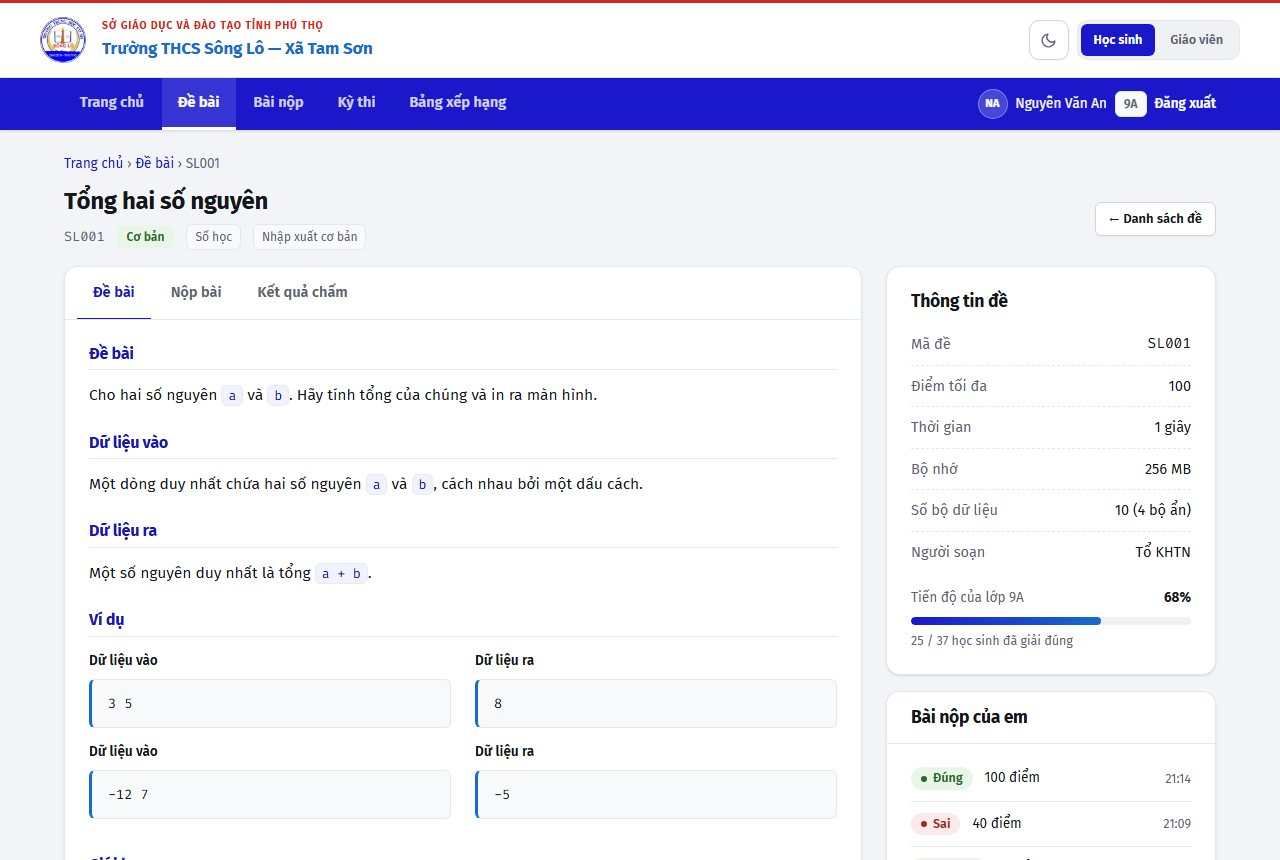
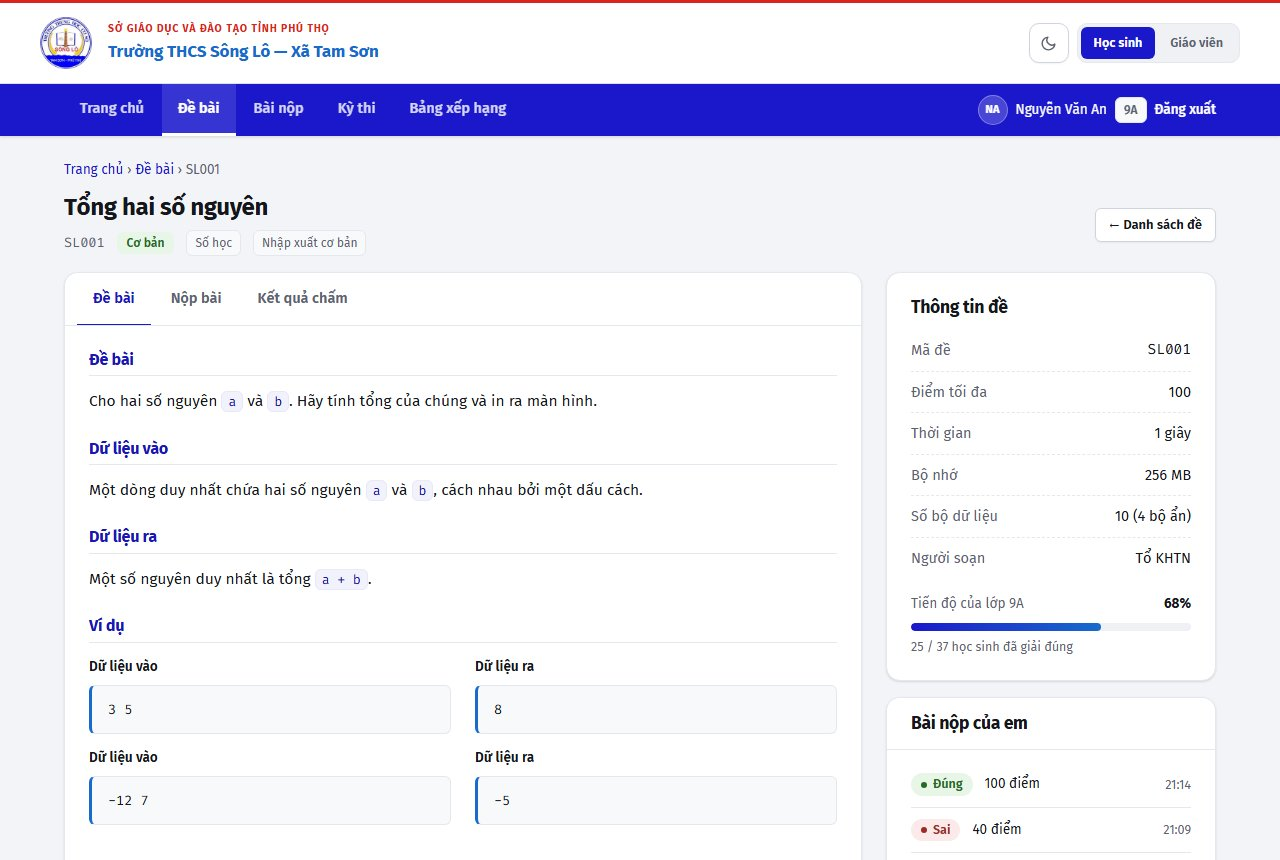
Nâng huy hiệu ở header từ 46 lên 52 px
Huy hiệu có một vòng chữ nhỏ bao quanh; ở 46 px vòng chữ đó nhoè thành
một vệt. Ảnh gốc rộng 144 px nên 52 px vẫn dư độ phân giải cho màn hình
mật độ cao.

Sửa ở cả hai chỗ phải khớp nhau:
  - CSS: .site-head__mark (52 px), và biến thể <=768 px (40 -> 44 px)
  - Thuộc tính width/height trên thẻ <img> ở cả 11 trang

CSS thắng sau khi tải xong, nhưng thuộc tính giữ đúng kích thước chỗ đó
ngay từ đầu nên không bị nhảy bố cục lúc mới tải.

Kèm theo:
  - _tools/shoot_docs.py: script chụp lại 8 ảnh README, thay cho 8 lệnh
    Chrome gõ tay. Tự sinh tệp probe, tự kiểm tra kích thước ảnh đầu ra.
  - Chụp lại cả 8 ảnh docs/ vì trang nào cũng có header.
  - README hai cấp: ghi lại con số 52 px, lý do, và chỗ phải sửa cho khớp.
    Nói rõ nền trắng bên trong vòng tròn là phần thiết kế của huy hiệu,
    nên ở chế độ tối huy hiệu hiện ra như một huy hiệu nền sáng.

Đã đo, không phải ước lượng:
  - huy hiệu render đúng 104x104 px thiết bị = 52x52 CSS px (DSF=2)
  - header cao 80 px (52 + 2x14 padding), nav dồn xuống tương ứng
  - 11/11 trang không tràn ngang ở 390 px
  - 0 liên kết nội bộ hỏng, 0 tệp mồ côi trong assets/

diff --git a/demo/assets/css/style.css b/demo/assets/css/style.css
@@ -213,9 +213,13 @@ kbd {
 .site-head__inner { display: flex; align-items: center; gap: var(--sp-4); padding: 14px 0; }
 /* Official emblem of Truong THCS Song Lo. The PNG has a transparent
    background, so the same file sits on the white header and on the dark one
-   without needing a plate or a theme-specific variant behind it. */
+   without needing a plate or a theme-specific variant behind it.
+   52px rather than 46px: the emblem carries a ring of small lettering that
+   turns to mush below ~50px. The source PNG is 144px wide, so there is still
+   headroom over 2x DPR. Keep this in sync with the width/height attributes
+   on the <img> in every page. */
 .site-head__mark {
-  width: 46px; height: 46px; flex: none; display: block;
+  width: 52px; height: 52px; flex: none; display: block;
   object-fit: contain;
 }
 .site-head__text { min-width: 0; }
@@ -795,7 +799,7 @@ kbd {
   .site-foot__grid { grid-template-columns: 1fr; gap: var(--sp-5); }
   .card, .card__body { padding: var(--sp-4); }
   .card__head, .table th, .table td { padding-left: var(--sp-4); padding-right: var(--sp-4); }
-  .site-head__mark { width: 40px; height: 40px; }
+  .site-head__mark { width: 44px; height: 44px; }
   .site-head__name { font-size: 15px; }
   .stat__value { font-size: 28px; }
   .hero-stats { margin-top: -32px; }

diff --git a/demo/contests.html b/demo/contests.html
@@ -17,7 +17,7 @@
 
 <header class="site-head">
   <div class="container site-head__inner">
-    <img class="site-head__mark" src="assets/img/logo.png" alt="" width="46" height="46">
+    <img class="site-head__mark" src="assets/img/logo.png" alt="" width="52" height="52">
     <div class="site-head__text">
       <p class="site-head__dept">Sở Giáo dục và Đào tạo tỉnh Phú Thọ</p>
       <p class="site-head__name">Trường THCS Sông Lô — Xã Tam Sơn</p>

diff --git a/demo/index.html b/demo/index.html
@@ -17,7 +17,7 @@
 
 <header class="site-head">
   <div class="container site-head__inner">
-    <img class="site-head__mark" src="assets/img/logo.png" alt="" width="46" height="46">
+    <img class="site-head__mark" src="assets/img/logo.png" alt="" width="52" height="52">
     <div class="site-head__text">
       <p class="site-head__dept">Sở Giáo dục và Đào tạo tỉnh Phú Thọ</p>
       <p class="site-head__name">Trường THCS Sông Lô — Xã Tam Sơn</p>

diff --git a/demo/leaderboard.html b/demo/leaderboard.html
@@ -17,7 +17,7 @@
 
 <header class="site-head">
   <div class="container site-head__inner">
-    <img class="site-head__mark" src="assets/img/logo.png" alt="" width="46" height="46">
+    <img class="site-head__mark" src="assets/img/logo.png" alt="" width="52" height="52">
     <div class="site-head__text">
       <p class="site-head__dept">Sở Giáo dục và Đào tạo tỉnh Phú Thọ</p>
       <p class="site-head__name">Trường THCS Sông Lô — Xã Tam Sơn</p>

diff --git a/demo/login.html b/demo/login.html
@@ -17,7 +17,7 @@
 
 <header class="site-head">
   <div class="container site-head__inner">
-    <img class="site-head__mark" src="assets/img/logo.png" alt="" width="46" height="46">
+    <img class="site-head__mark" src="assets/img/logo.png" alt="" width="52" height="52">
     <div class="site-head__text">
       <p class="site-head__dept">Sở Giáo dục và Đào tạo tỉnh Phú Thọ</p>
       <p class="site-head__name">Trường THCS Sông Lô — Xã Tam Sơn</p>

diff --git a/demo/problem.html b/demo/problem.html
@@ -17,7 +17,7 @@
 
 <header class="site-head">
   <div class="container site-head__inner">
-    <img class="site-head__mark" src="assets/img/logo.png" alt="" width="46" height="46">
+    <img class="site-head__mark" src="assets/img/logo.png" alt="" width="52" height="52">
     <div class="site-head__text">
       <p class="site-head__dept">Sở Giáo dục và Đào tạo tỉnh Phú Thọ</p>
       <p class="site-head__name">Trường THCS Sông Lô — Xã Tam Sơn</p>

diff --git a/demo/problems.html b/demo/problems.html
@@ -17,7 +17,7 @@
 
 <header class="site-head">
   <div class="container site-head__inner">
-    <img class="site-head__mark" src="assets/img/logo.png" alt="" width="46" height="46">
+    <img class="site-head__mark" src="assets/img/logo.png" alt="" width="52" height="52">
     <div class="site-head__text">
       <p class="site-head__dept">Sở Giáo dục và Đào tạo tỉnh Phú Thọ</p>
       <p class="site-head__name">Trường THCS Sông Lô — Xã Tam Sơn</p>

diff --git a/demo/submission.html b/demo/submission.html
@@ -17,7 +17,7 @@
 
 <header class="site-head">
   <div class="container site-head__inner">
-    <img class="site-head__mark" src="assets/img/logo.png" alt="" width="46" height="46">
+    <img class="site-head__mark" src="assets/img/logo.png" alt="" width="52" height="52">
     <div class="site-head__text">
       <p class="site-head__dept">Sở Giáo dục và Đào tạo tỉnh Phú Thọ</p>
       <p class="site-head__name">Trường THCS Sông Lô — Xã Tam Sơn</p>

diff --git a/demo/submissions.html b/demo/submissions.html
@@ -17,7 +17,7 @@
 
 <header class="site-head">
   <div class="container site-head__inner">
-    <img class="site-head__mark" src="assets/img/logo.png" alt="" width="46" height="46">
+    <img class="site-head__mark" src="assets/img/logo.png" alt="" width="52" height="52">
     <div class="site-head__text">
       <p class="site-head__dept">Sở Giáo dục và Đào tạo tỉnh Phú Thọ</p>
       <p class="site-head__name">Trường THCS Sông Lô — Xã Tam Sơn</p>

diff --git a/demo/teacher-classes.html b/demo/teacher-classes.html
@@ -17,7 +17,7 @@
 
 <header class="site-head">
   <div class="container site-head__inner">
-    <img class="site-head__mark" src="assets/img/logo.png" alt="" width="46" height="46">
+    <img class="site-head__mark" src="assets/img/logo.png" alt="" width="52" height="52">
     <div class="site-head__text">
       <p class="site-head__dept">Sở Giáo dục và Đào tạo tỉnh Phú Thọ</p>
       <p class="site-head__name">Trường THCS Sông Lô — Xã Tam Sơn</p>

diff --git a/demo/teacher-problems.html b/demo/teacher-problems.html
@@ -17,7 +17,7 @@
 
 <header class="site-head">
   <div class="container site-head__inner">
-    <img class="site-head__mark" src="assets/img/logo.png" alt="" width="46" height="46">
+    <img class="site-head__mark" src="assets/img/logo.png" alt="" width="52" height="52">
     <div class="site-head__text">
       <p class="site-head__dept">Sở Giáo dục và Đào tạo tỉnh Phú Thọ</p>
       <p class="site-head__name">Trường THCS Sông Lô — Xã Tam Sơn</p>

diff --git a/demo/teacher.html b/demo/teacher.html
@@ -17,7 +17,7 @@
 
 <header class="site-head">
   <div class="container site-head__inner">
-    <img class="site-head__mark" src="assets/img/logo.png" alt="" width="46" height="46">
+    <img class="site-head__mark" src="assets/img/logo.png" alt="" width="52" height="52">
     <div class="site-head__text">
       <p class="site-head__dept">Sở Giáo dục và Đào tạo tỉnh Phú Thọ</p>
       <p class="site-head__name">Trường THCS Sông Lô — Xã Tam Sơn</p>
